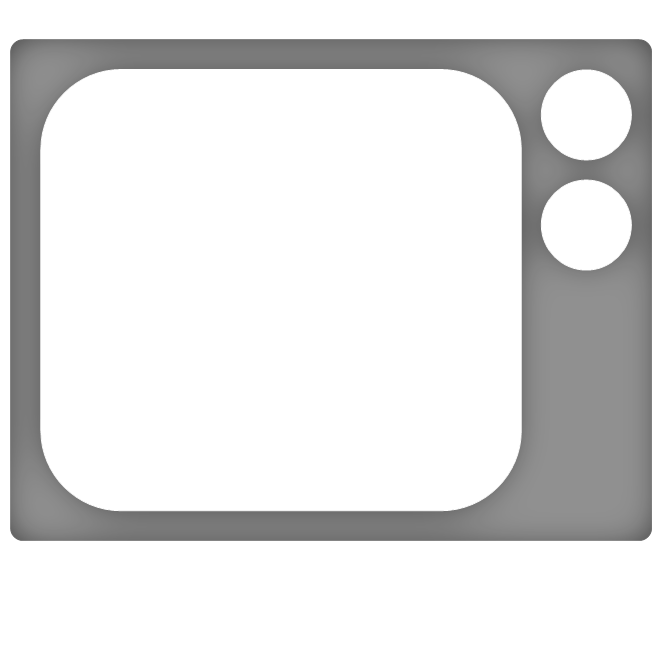
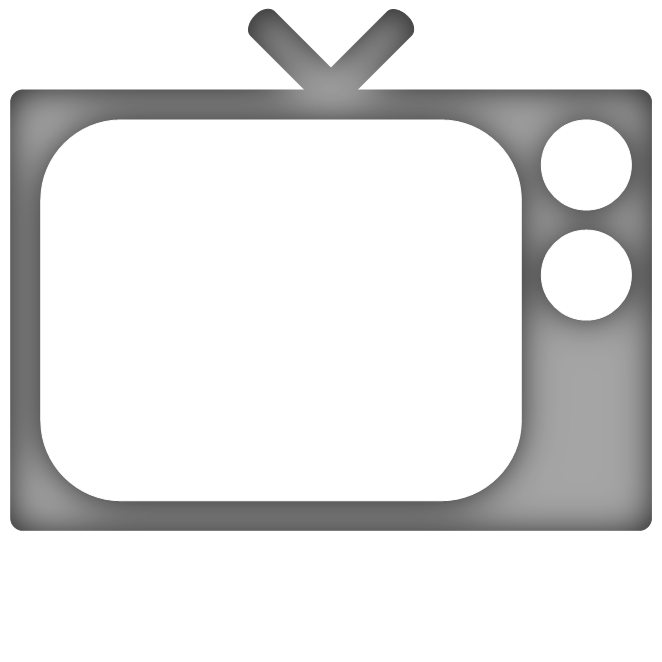
Improved artwork voor live tv and tv shows in the circle of the Home Menu, fixed loading random items in the Home Menu circle, added numbers to the items in the Home Menu circle, improved Python script for loading Home-properties in window properties.

diff --git a/scripts/PopulateStaticItemsFromHomeProperties.py b/scripts/PopulateStaticItemsFromHomeProperties.py
@@ -13,8 +13,8 @@ import xbmc
 
 from xbmc_property import *
 
-SCRIPT_NAME = 'Revolve/PopulateListFromHomeProperties'
-DEFAULT_WINDOW = '0'
+SCRIPT_NAME = 'Revolve/PopulateStaticItemsFromHomeProperties'
+DEFAULT_TARGETWINDOW = '0'
 DEFAULT_TARGETMASK = 'MyItems%02dOption'
 TOTAL_ITEMS = 20
 
@@ -22,71 +22,75 @@ def logMessage(annotation):
     message = '%s: %s' % (SCRIPT_NAME, annotation.encode('ascii', 'ignore'))
     xbmc.log(msg=message, level=xbmc.LOGDEBUG)
 
-def createNameProperty(originbase, destination, targetwindow):
-    value = getValueFromHomeProperty(originbase + '.Title')
-    value = replaceEmptyValueFromHomeProperty(originbase + '.EpisodeTitle', value)
-    setValueToProperty(destination, value, targetwindow)
+def createGenericNameProperty(sourcebase, targetproperty, targetwindow):
+    value = getValueFromHomeProperty(sourcebase + '.Title')
+    value = replaceEmptyValueFromHomeProperty(sourcebase + '.EpisodeTitle', value)
+    setValueToProperty(targetproperty, value, targetwindow)
     
-def createSubtitleProperty(originbase, destination, targetwindow):
+def createGenericSubtitleProperty(sourcebase, targetproperty, targetwindow):
     value = joinLabels(
-        getValueFromHomeProperty(originbase + '.ShowTitle'),
-        getValueFromHomeProperty(originbase + '.TVShowTitle'),
-        getValueFromHomeProperty(originbase + '.Studio'),
-        getValueFromHomeProperty(originbase + '.Artist'),
-        getValueFromHomeProperty(originbase + '.Author'),
-        getValueFromHomeProperty(originbase + '.Album'),
-        ignoreNumericZeroValue(getValueFromHomeProperty(originbase + '.Year')),
-        ignoreNumericZeroValue(getValueFromHomeProperty(originbase + '.Version')))
-    setValueToProperty(destination, value, targetwindow)
+        getValueFromHomeProperty(sourcebase + '.ShowTitle'),
+        getValueFromHomeProperty(sourcebase + '.TVShowTitle'),
+        getValueFromHomeProperty(sourcebase + '.Studio'),
+        getValueFromHomeProperty(sourcebase + '.Artist'),
+        getValueFromHomeProperty(sourcebase + '.Author'),
+        getValueFromHomeProperty(sourcebase + '.Album'),
+        ignoreNumericZeroValue(getValueFromHomeProperty(sourcebase + '.Year')),
+        ignoreNumericZeroValue(getValueFromHomeProperty(sourcebase + '.Version')))
+    setValueToProperty(targetproperty, value, targetwindow)
     
-def createIconProperty(originbase, destination, targetwindow):
-    value = getValueFromHomeProperty(originbase + '.Art(poster)')
-    value = replaceEmptyValueFromHomeProperty(originbase + '.Thumb', value)
-    value = replaceEmptyValueFromHomeProperty(originbase + '.Icon', value)
-    setValueToProperty(destination, value, targetwindow)
+def createGenericIconProperty(sourcebase, targetproperty, targetwindow):
+    value = getValueFromHomeProperty(sourcebase + '.Art(poster)')
+    value = replaceEmptyValueFromHomeProperty(sourcebase + '.Thumb', value)
+    value = replaceEmptyValueFromHomeProperty(sourcebase + '.Icon', value)
+    setValueToProperty(targetproperty, value, targetwindow)
     
-def createBackgroundImageProperty(originbase, destination, targetwindow):
-    value = getValueFromHomeProperty(originbase + '.Art(fanart)')
-    value = replaceEmptyValueFromHomeProperty(originbase + '.Art(fanart_image)', value)
-    value = replaceEmptyValueFromHomeProperty(originbase + '.Fanart', value)
-    setValueToProperty(destination, value, targetwindow)
+def createGenericBackgroundImageProperty(sourcebase, targetproperty, targetwindow):
+    value = getValueFromHomeProperty(sourcebase + '.Art(fanart)')
+    value = replaceEmptyValueFromHomeProperty(sourcebase + '.Art(fanart_image)', value)
+    value = replaceEmptyValueFromHomeProperty(sourcebase + '.Fanart', value)
+    setValueToProperty(targetproperty, value, targetwindow)
     
-def createActionProperty(originbase, destination, targetwindow):
-    value = getValueFromHomeProperty(originbase + '.Play')
+def createGenericActionProperty(sourcebase, targetproperty, targetwindow):
+    value = getValueFromHomeProperty(sourcebase + '.Play')
     if value == '':
-        value = addPrefixAndSuffixToLabel(getValueFromHomeProperty(originbase + '.Path'), 'PlayMedia("', '")')
+        value = addPrefixAndSuffixToLabel(getValueFromHomeProperty(sourcebase + '.Path'), 'PlayMedia("', '")')
     if value == '':
-        value = getValueFromHomeProperty(originbase + '.LibraryPath')
-    setValueToProperty(destination, value, targetwindow)
+        value = getValueFromHomeProperty(sourcebase + '.LibraryPath')
+        if "videodb" in value:
+            value = addPrefixAndSuffixToLabel(value, "ActivateWindow(videos,", ")")
+        if "musicdb" in value:
+            value = addPrefixAndSuffixToLabel(value, "ActivateWindow(music,", ")")
+    setValueToProperty(targetproperty, value, targetwindow)
     
 
-def copyProperties(originmask, destinationmask, targetwindow):
+def copyProperties(sourcemask, targetmask, targetwindow):
     for index in range (1, TOTAL_ITEMS):
-        originbase = originmask % (index)
-        destinationbase = destinationmask % (index)
+        sourcebase = sourcemask % (index)
+        targetbase = targetmask % (index)
 
-        createNameProperty(originbase, destinationbase + '.Label', targetwindow)
-        createSubtitleProperty(originbase, destinationbase + '.Label2', targetwindow)
-        createIconProperty(originbase, destinationbase + '.Thumb', targetwindow)
-        createBackgroundImageProperty(originbase, destinationbase + '.Fanart', targetwindow)
-        createActionProperty(originbase, destinationbase + '.Action', targetwindow)
+        createGenericNameProperty(sourcebase, targetbase + '.Label', targetwindow)
+        createGenericSubtitleProperty(sourcebase, targetbase + '.Label2', targetwindow)
+        createGenericIconProperty(sourcebase, targetbase + '.Thumb', targetwindow)
+        createGenericBackgroundImageProperty(sourcebase, targetbase + '.Fanart', targetwindow)
+        createGenericActionProperty(sourcebase, targetbase + '.Action', targetwindow)
 
 
 if len(sys.argv) > 1:
     logMessage('Call to ' + SCRIPT_NAME + ' script with arguments: ' + str(sys.argv) + '.')	
-    originmask = sys.argv[1]
+    sourcemask = sys.argv[1]
 
     if len(sys.argv) > 2:
-        destinationmask = sys.argv[2]
+        targetmask = sys.argv[2]
     else:
-        destinationmask = DEFAULT_TARGETMASK
+        targetmask = DEFAULT_TARGETMASK
     
     if len(sys.argv) > 3:
         targetwindow = sys.argv[3]
     else:
-        targetwindow = DEFAULT_WINDOW
+        targetwindow = DEFAULT_TARGETWINDOW
     
-    logMessage(SCRIPT_NAME + ' copies properties: ' + originmask + ' to ' + destinationmask + ' on window ' + targetwindow)	
-    copyProperties(originmask, destinationmask, targetwindow)
+    logMessage(SCRIPT_NAME + ' copies properties: ' + sourcemask + ' to ' + targetmask + ' on window ' + targetwindow)	
+    copyProperties(sourcemask, targetmask, targetwindow)
 else:
     logMessage(SCRIPT_NAME + ' terminates: Missing argument(s) in call to script.')	
